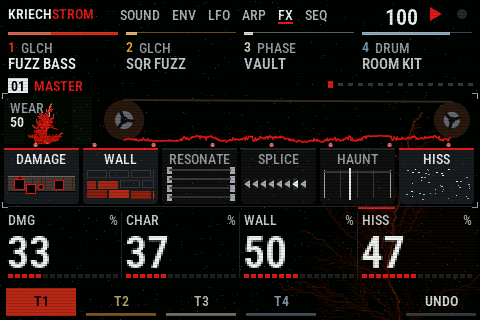
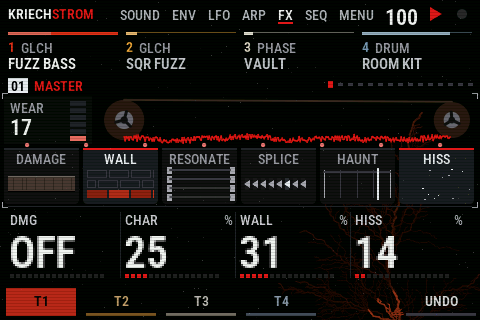
0.5.6: a pulse of current through the figure on every hit; WEAR on MASTER as a column of cells

diff --git a/kriechstrom/kx_wear.h b/kriechstrom/kx_wear.h
@@ -48,6 +48,33 @@ static void kx_bg_paint(uint16_t *fb)
         kx_ic[IC_SCREEN] == 1 ? 100 + (int)(heat * 80.0f) : 100;   /* (LOW: it breathes with the level, no flashes) */
     for (i = 0; i < BG_W * BG_H; i++)
         fb[i] = px_scale(kx_bg[i], k);
+    if (kx_ic[IC_SCREEN]) {                       /* a hit: a pulse of current runs through the figure, root to tips */
+        static float prev;
+        static uint64_t t0;
+        static float amt;
+        float lim = 8.0f + (0.30f + (float)wear / 40.0f * 0.70f) * 248.0f, u;
+        if (kx_fx_hit > 0.5f && kx_fx_hit > prev + 0.05f) {
+            t0 = vibe_frames() ? vibe_frames() : 1;
+            amt = kx_fx_hit > 1.0f ? 1.0f : kx_fx_hit;
+        }
+        prev = kx_fx_hit;
+        u = t0 ? (float)(vibe_frames() - t0) / (kx_sr * 0.42f) : 1.0f;
+        if (u < 1.0f) {
+            float front = u * (lim + 16.0f), sx = 300.0f / 1024.0f, sy = 260.0f / 1024.0f, s = sx < sy ? sx : sy;
+            float fade = (1.0f - u) * amt;
+            uint32_t j;
+            uint32_t hot = kx_ic[IC_SCREEN] == 2 ? 0xFFD8C8 : 0xE0502A;
+            for (j = 0; j < cr_n; j++) {
+                const cr_seg *g = &cr[j];
+                float o = (float)g->order, d = front - o, w;
+                if (o > lim || d < 0.0f || d > 16.0f)
+                    continue;
+                w = (g->depth == 0 ? 3.4f : g->depth == 1 ? 2.2f : 1.2f) * s * 1.6f + 0.6f;
+                vg_line(250.0f + g->x0 * sx, 70.0f + g->y0 * sy, 250.0f + g->x1 * sx, 70.0f + g->y1 * sy, w,
+                        vg_mix(0x4A160C, hot, fade * (1.0f - d / 16.0f)));
+            }
+        }
+    }
 }
 
 /* after the page: the wear of the picture (fb is w x h: the display or the stage) */

diff --git a/kriechstrom/kx_draw.h b/kriechstrom/kx_draw.h
@@ -409,11 +409,18 @@ static void kx_draw_master(int x, int y, int w, int h)
     amt[3] = song.g[G_SPLICE];
     amt[4] = song.g[G_HAUNT] ? song.g[G_HAMT] : 0;
     amt[5] = song.g[G_HISS];
-    vg_rect(x, y, cs + 40, cs, 0x0D0D0F);
-    cr_cache_blit(&cr_master, kx_fb, 480, 320, x + 20, y, cr_wear(), 190 + (int)(heat * 160.0f));
-    vg_text("WEAR", x + 6, y + 4, VG_SMALL, C_DIM, VG_LEFT);
-    vg_itoa((int)(cr_wear() * 100.0f + 0.5f), b);
-    vg_text(b, x + 6, y + 18, VG_BOLD, C_WHITE, VG_LEFT);
+    {   /* WEAR: how far the mix is worn, as a column of cells (the top one sparks with the mix) */
+        int k, n = 6, ch = (cs - 4) / n, lit = (int)(cr_wear() * (float)n + 0.5f);
+        vg_rect(x, y, cs + 40, cs, 0x0D0D0F);
+        for (k = 0; k < n; k++) {
+            int cy = y + cs - 2 - (k + 1) * ch;
+            uint32_t c = k < lit ? (k == lit - 1 ? vg_mix(C_RED, 0xFFE0D0, heat > 1.0f ? 1.0f : heat) : C_RED) : 0x26262A;
+            vg_rect(x + cs + 18, cy + 1, 16, ch - 2, c);
+        }
+        vg_text("WEAR", x + 6, y + 4, VG_SMALL, C_DIM, VG_LEFT);
+        vg_itoa((int)(cr_wear() * 100.0f + 0.5f), b);
+        vg_text(b, x + 6, y + 18, VG_BIG, C_WHITE, VG_LEFT);
+    }
     kx_draw_reels(x + cs + 48, y, w - cs - 48, cs);
     {   /* the signal along the chain: sparks running left to right, as many and as fast as the mix is loud */
         float tm = (float)vibe_frames() / kx_sr;

diff --git a/kriechstrom/kx_hal.h b/kriechstrom/kx_hal.h
@@ -17,7 +17,7 @@ char *strchr(const char *s, int c);
 #endif
 #define FELUCCA_CDC 0
 #define FELUCCA_FLASH 0
-#define FELUCCA_VERSION "0.5.5"
+#define FELUCCA_VERSION "0.5.6"
 #define FM1_TICKS_PER_US 1u
 #define FM1_NCOL 11u
 #define __attribute__(x)

diff --git a/README.md b/README.md
@@ -34,7 +34,8 @@ mark grows behind every page as the master wears the mix out.
   (the FM-1's format, IMA ADPCM); a track plays it as SLICE, cut where its hits are, or as SAMPLE across the keys.
   Kept in `usr1.kxu` .. `usr3.kxu`.
 - **The start:** where you left it, the demo song, an empty project, or one of your projects.
-- **The display wears with the sound:** the creep figure grows with DAMAGE and WALL and pulses with the level; DAMAGE
+- **The display wears with the sound:** the creep figure grows with DAMAGE and WALL, and on every hit a pulse of
+  current runs through it; DAMAGE
   tears the picture on the drum hits, CHAR towards DIGITAL splits its colours, SPLICE cuts bands of it, HAUNT's DRAG
   sags it over the last beat of a bar, HISS adds grain. Each effect has a picture of its own, moving with the
   sound: DAMAGE a tape bitten full of holes (square ones as CHAR goes DIGITAL), WALL bricks laid, RESONATE four

diff --git a/CHANGELOG.md b/CHANGELOG.md
@@ -5,6 +5,15 @@ All notable changes to KRIECHSTROM for VIBE FM. The format follows
 
 ## [Unreleased]
 
+## [0.5.6] - 2026-11-20
+
+On KRIECHSTROM 0.5.2 for the FM-1.
+
+### Changed
+- the figure behind the pages: on every hit a pulse of current runs through it from the root to the tips (not with
+  SCREEN WEAR OFF; white on FULL)
+- MASTER shows WEAR as a column of cells (its top one sparks with the mix) instead of the figure squeezed small
+
 ## [0.5.5] - 2026-11-20
 
 On KRIECHSTROM 0.5.2 for the FM-1.

diff --git a/docs/release-0.5.6.md b/docs/release-0.5.6.md
@@ -1,0 +1,7 @@
+KRIECHSTROM for VIBE FM 0.5.6, on KRIECHSTROM 0.5.2 for the FM-1.
+
+- on every hit a pulse of current runs through the figure behind the pages, root to tips (not with SCREEN WEAR OFF)
+- MASTER shows WEAR as a column of cells instead of a tiny figure
+
+Files: `kriechstrom.wasm` (the Playground: Load your own .wasm, or drop it onto the device), `kriechstrom.zip`
+(VIBE FM VST: drop it onto its window). The source is this tag; `git clone --recursive` brings KRIECHSTROM's core with it.
